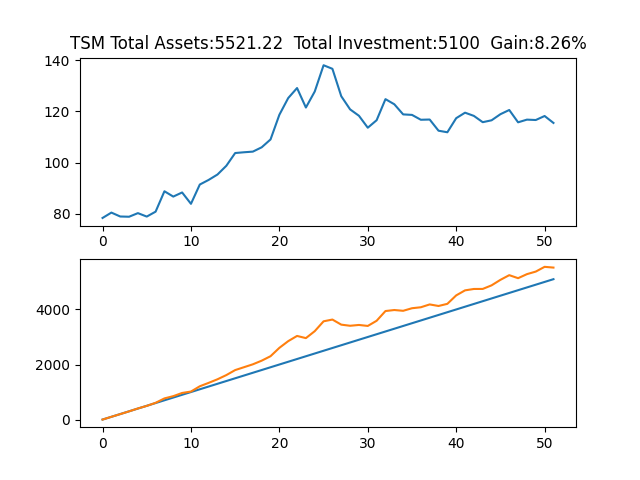
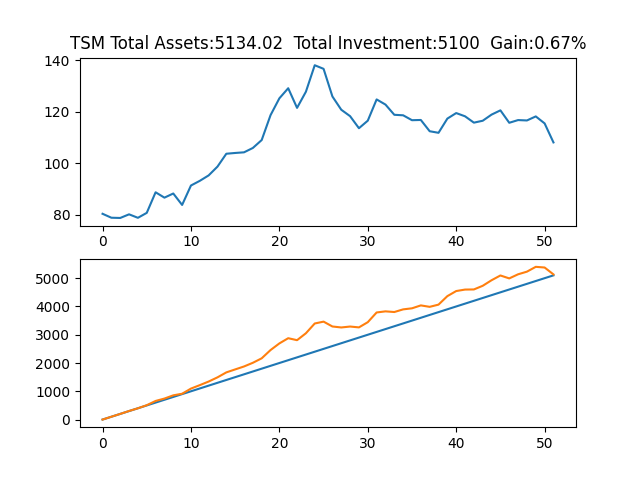
updating readme

diff --git a/Stock_RegularInvest_Sim.py b/Stock_RegularInvest_Sim.py
@@ -2,7 +2,7 @@ from RegularInvest import RegularInvest
 import pandas_datareader.data as web
 
 for i in range(1):
-    exp1 = RegularInvest(weeks=52, stock="TSM", invest_amount=100, beta=3000)
+    exp1 = RegularInvest(weeks=52, stock="fb", invest_amount=100, beta=3000)
     #exp1.populate_coin_price()
     #exp1.populate_coin_price_with_sin()
     exp1.populate_stock_price()
